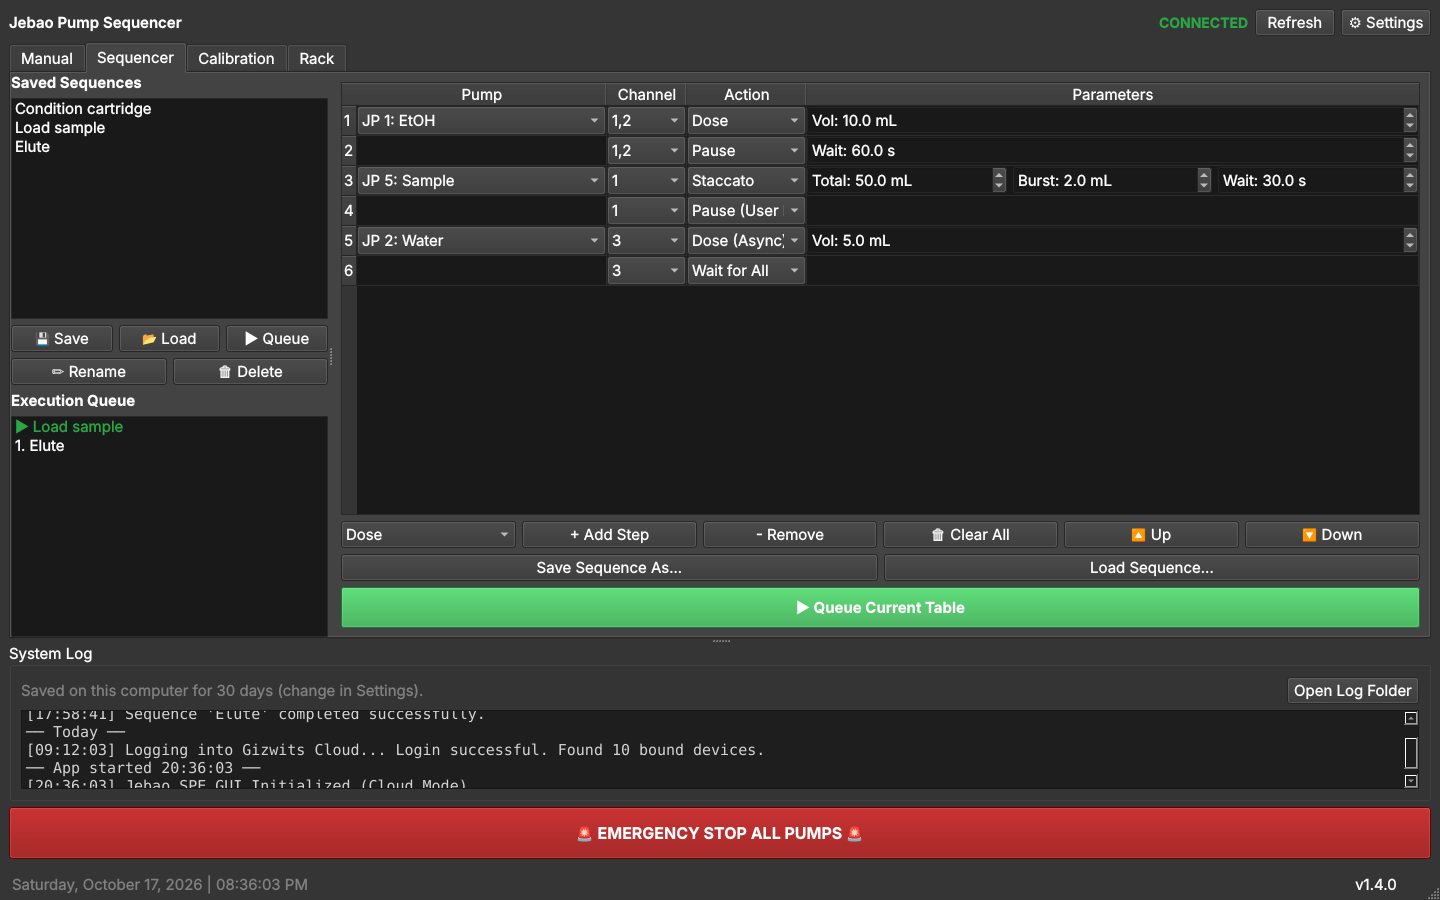
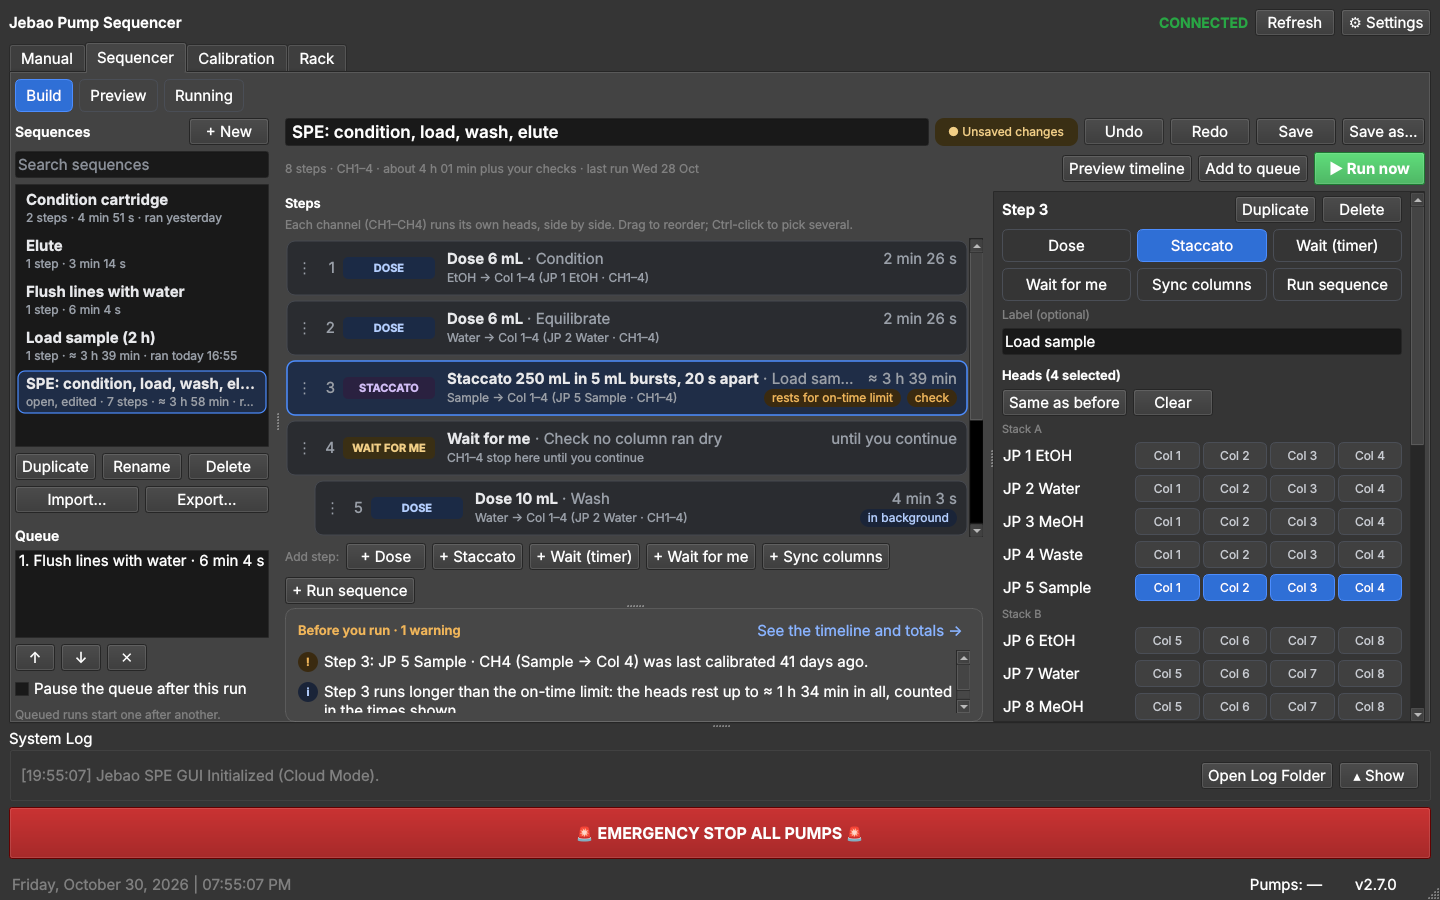
Release 2.7.0
Docs for the new Sequencer tab: README features and three screenshots,
CHANGELOG, CLAUDE.md architecture notes; package the two new modules.

Claude-Session: https://claude.ai/code/session_01Q45g1uXJXLbyeLygNHJ6jd

diff --git a/jebao_gui.py b/jebao_gui.py
@@ -1,6 +1,6 @@
 """Jebao Pump Sequencer: PyQt6 app that drives Jebao dosing pumps through the Gizwits cloud API."""
 
-__version__ = "2.6.0"
+__version__ = "2.7.0"
 
 import os
 import sys

diff --git a/CLAUDE.md b/CLAUDE.md
@@ -3,7 +3,7 @@
 PyQt6 app that drives Jebao MD-4.4 / Doser 2.4 4-channel dosing pumps (5 pumps, e.g. "JP 1: EtOH" … "JP 5: Sample") for SPE sequences: manual doses, per-channel calibration, multi-step sequences, and a global emergency stop. Part of Brandon's UAkron lab workspace (shared conventions in `../CLAUDE.md` when the repos are cloned side by side in `GitHub Projects/UAkron/`). GitHub: `brandonbtm29/Jebao-Pump-Sequencer`.
 
 ## Run, test, release
-- `python jebao_gui.py` (PyQt6 + qasync + requests; Python 3.11+ because of `asyncio.Barrier`). Install with `pip install -e ".[dev]"`; `pyproject.toml` is the only manifest.
+- `python jebao_gui.py` (PyQt6 + qasync + requests; Python 3.11+ because the sequence engine uses `Task.cancelling()`). Install with `pip install -e ".[dev]"`; `pyproject.toml` is the only manifest.
 - Checks (same as CI, `.github/workflows/ci.yml`): `ruff check .`, `ruff format --check .`, `pytest`. Tests in `tests/` run Qt offscreen, point the data and settings folders at a temp dir before importing `jebao_gui`, and block the network.
 - `settings_location.py` is excluded from ruff on purpose: keep it byte-identical to the other UAkron repos.
 - Also shared and byte-identical across the UAkron repos (never edit here): `crash_log.py`, `single_instance.py` (one copy at a time; `main()` calls `acquire(APP_NAME)`, `restart_app()` calls `release()` right before `Popen`) and `diagnostics.py` (Settings → App → Copy Diagnostics; `diagnostics_text()` adds `scrub_private()` on top, so pump IDs, MACs and the login never appear).
@@ -15,14 +15,33 @@ PyQt6 app that drives Jebao MD-4.4 / Doser 2.4 4-channel dosing pumps (5 pumps, 
 - Emergency stop sends all four channels `false` to every pump.
 - `ConfigManager` → `jebao_config.json`: names, calibration (flow rates) and last volumes, keyed by cloud device id (`did`).
 - `SecretsManager` → `secrets.json`: Jebao account email and password. **Gitignored. Never print, log, commit or copy its contents.**
-- Main classes in `jebao_gui.py` (~2,500 lines): `GUILogHandler`/`_LogBridge` (thread-safe log box), `HeadRun`, `CheckableComboBox`, `AppBox` (Settings → updates + desktop shortcut), `SettingsDialog`, `JebaoPumpGUI`.
+- Main classes in `jebao_gui.py` (~2,500 lines): `GUILogHandler`/`_LogBridge` (thread-safe log box), `HeadRun`, `AppBox` (Settings → updates + desktop shortcut), `SettingsDialog`, `JebaoPumpGUI`.
+- **Sequences (2.7):**
+  - **Model:** `sequence.py` (no Qt). A step is `{"kind": dose|staccato|wait|review|sync|sequence, "heads": [[did, ch]], "lanes", "by": volume|time, "volume", "seconds", "burst", "gap", "background", "label", "name", "sound", "message"}` (`message`: Wait for me only, at most `MAX_MESSAGE` characters). `normalize()` reads 2.6 steps (`action`/`pump_did`/`channel`/`val1-3`) and clamps odd values. `to_saved()` also writes the 2.6 fields; a step 2.6 can't run exactly (several pumps, or a dose by time) is saved for it as "Pause (User Review)". Unknown old actions become a 0 s wait.
+  - **Lanes:** the lanes are the channel numbers 1–4. A pumping step's lanes are its heads' channels, and each lane runs only its own heads. Other kinds use `lanes`. Sub-sequences are flattened (`flatten`, recursion guard).
+  - **Plans:** `plan()` simulates the lanes with `pumpguard.OnTimeBudget` and the guard's `resting_need()`, giving times, rests, per-head volumes, liquids, reviews and the "Before you run" checks. `step_problem()` decides when a pumping step can't run; such a step fails the run. Plans are bounded: `MAX_BURSTS` 5000, `SIM_LIMIT` 8000 limit-aware pumping runs, old budget spans pruned. They run on the event loop that drives the pumps, so keep them fast.
+  - **Run state:** `RunState`/`LaneState` hold the step × lane cells and each lane's status, detail and mL. `SyncPoint` lets a skipped lane count as arrived. The run history is `<data>/logs/runs-<computer>.jsonl`.
+  - **Engine (`jebao_gui.py`):**
+    - `_queue_worker` (only one at a time) → `_queue_step` → `_run_queued`; it waits while `queue_paused` unless `_run_one` (Run now).
+    - `_async_run_sequence` creates one `_run_lane` task per lane. Each step runs as its own task in `_ch_step_tasks`, so `skip_step(ch)` cancels just that step: `_skip[ch] == path` and the lane's `cancelling()` is 0.
+    - Background steps go in `_ch_running_tasks`. If one fails, `_background_done` → `_fail_run`.
+    - `_run_head` uses `_timed_run`, with a `meter` for mL delivered, and waits while its head is busy. `_together` cancels sibling heads if one fails.
+    - Pause per lane is `pause_lane` (`_ch_paused`, polled). `stop_run()` pauses the queue and sets `run.stopping`; Stop and Skip are ignored after that.
+    - The `finally` keeps waiting up to 15 s for every task's OFF, even if cancelled again. It then releases reviews, records history and calls `sequencer_tab.run_finished`.
+    - A failed or stopped run pauses the queue.
+    - **Wait for me message:** `_ch_review_messages[ch]` and `_review_at[ch]` (the step's path) are set while a lane waits. The message goes in the orange bar and the lane's detail. `_show_review_popup` opens one `ReviewPopup` (in `sequencer_tab.py`) per step path; it is non-modal, so never call `exec()` on it, because a nested event loop would stall the pumps. It holds the lanes waiting at that step. Continue approves them; Not yet only closes it. Lanes leaving the step (continued, skipped or stopped) are removed from it, and the run's `finally` closes any left.
+  - **UI:** `sequencer_tab.py` = `SequencerTab(host)` with Build / Preview / Running pages. `splitter` is `host.seq_splitter` (the sidebar divider, 2 panes, remembered per computer).
+    - **Build:** library sidebar and queue; `StepList` + `StepDelegate` cards with InternalMove drag (`reordered`); the inspector is rebuilt on selection. The draft lives in `config['sequence']`, `['sequence_name']` and `['sequence_source']`, with undo snapshots.
+    - **Preview:** `Timeline` (QPainter) and the per-head table.
+    - **Running:** `LaneCard` per lane and a progress grid. It refreshes from `host.ui_timer`.
 - **2.0 layout:** top bar (status, Refresh, Settings) → approval banner → tabs **Manual | Sequencer | Calibration | Rack** in a vertical splitter with the System Log → Emergency Stop → status bar (clock, version). `rack_widgets.py` holds `ManualTab` (PumpCard + `HeadTile`, selection, Dispense panel, S/M/L sizes in `config['ui']`) and `RackTab` (TrayList + `SlotWidget` drag-and-drop with MIME `application/x-jebao-pump`, click-to-place fallback, pump/head names). Both use the main window as `host` (see the module docstring for the methods). `HeadGrid` (the rack of selectable tiles, optional `status_for(did, ch)` hook for the status line) is shared by the Manual and Calibration tabs; tile size is shared via `host.tile_size_changed`. `refresh_pumps()` re-sorts `cloud_devices` in rack order and rebuilds the tabs; `ui_timer` (300 ms) refreshes only the tab in view (plus `calibration_tab._watch_cancel()`).
 - `rack.py`: layout data in `config['rack']` (`name`, `slots_per_stack`, `stacks[{name, slots[did|None]}]`), pure functions (place = swap, remove, resize, auto_arrange, natural_key). First 2.0 run: `rack_layout()` builds one stack from the old `pump_order`. Names: `config['pumps'][did]['display_name']`, `['head_names']` (4), `['calibrated_at']` (4 ISO dates; 1.0 mL/min with no date = "not calibrated").
 - **Calibration (2.1):** `calibration_tab.py` = `CalibrationTab` (HeadGrid with `scroll=False` and its `toolbar` pinned above one scroll area holding the grid, the live `MassChart` and the results table; Automatic/Manual pages on the right). `autocal.py` (no Qt) = `Settings`, `fit_line`, `evaluate`, `AutoCalibrator` (async; one head at a time: settle until still → ON until ~volume by balance or `max_run_s` → OFF → settle until still; two-pass fit with the ignore margins counted from the detected flow start/stop; saves the **slope** rate; pass = R² and first-half vs second-half slope within `tolerance_pct`; start/stop delays = where the line meets start/end mass, reported not judged; Δmass rate kept for the record; retries only R²/steadiness misses; no-flow fails that head; a pump or balance failure stops the run; injectable `clock`/`sleep`), `write_csv`. `balance.py` (no Qt) = MT-SICS `SI` polling and streamed-line parsers (grams), `SerialBalance` reader thread with a sample deque, `SimulatedBalance` for tests. Host hooks: `set_head`, `save_head_rate` (sets rate + `calibrated_at`), `data_dir` (CSV in `<data>/calibrations/`), `calibration_running()` (queued sequences wait). Settings in `config['autocal']`. Tubing ID/OD are no longer edited (old values kept).
 - System log: **Hide/Show** (`set_log_collapsed`, saved as `config['ui']['log_collapsed']`) hides the text box, caps the group's height and shows the latest line in `lbl_log_info`.
 - **Pump guard (2.5):** `pumpguard.py` (no Qt). `send_cloud_command()` → `guard.command()` → `_post_control()` (raw HTTP).
   - **Bookkeeping:** the guard records `app_on`/`last_cmd`, takes one `asyncio.Lock` per head so commands never overlap, and tracks commands still in flight.
-  - **Failed commands:** a failed OFF, or a failed or cancelled ON, goes into `must_off`. `_keep_stopping` retries with back-off; after a failed ON it sends a second OFF 12 s later.
+  - **Failed commands:** a failed OFF, or a failed or cancelled ON, goes into `must_off`. `_keep_stopping` retries with back-off; after a failed ON it sends a second OFF 12 s later (also when another path's OFF got there first).
+  - **Cancelled commands (2.7):** `command()` sends through a shielded task. If the caller is cancelled, `_finish` waits up to `FINISH_WAIT_S` for the request, so a later OFF can't overtake a late ON; a cancelled ON is then stopped. An OFF cancelled before it went out is put in `must_off`. `only_if` is checked once the lock is held (the guard's re-ON uses it).
   - **Confirming OFF:** an OFF to a head that was on stays in `unconfirmed` until the pump's report (`_read_pump`: GET `/app/devdata/{did}/latest` → `attr.channe1..8`, `updated_at`) shows it at 0. This applies only when reports can be read, or when the pump is offline.
   - **`check()` after every pump-list fetch:** stops orphans (app_on but no HeadRun after 20 s), stops non-resting runs that are over the limit, and stops heads that report ON while the app has them off. It also re-sends ON once if a dose's head reports OFF.
   - **On-time budget:** `OnTimeBudget`. `head_limit()` comes from `config['guard']` (enabled, on_min, window_min) or a per-head `config['pumps'][did]['limits'][ch-1]` (None/"off"/minutes).
@@ -36,7 +55,7 @@ PyQt6 app that drives Jebao MD-4.4 / Doser 2.4 4-channel dosing pumps (5 pumps, 
 - `updater.py`: checks GitHub's latest release, fast-forwards a git clone to the tag, reinstalls (`pip install -e .`) only if `pyproject.toml` changed, rolls back on failure. Same design as Balance-Streamer-GUI and Masterflex. `JebaoPumpGUI.busy_reason()` blocks updating while a sequence/queue, manual dose or calibration is running (`_motor_jobs` counter).
 - Startup (`main()` → `start_background_tasks()` after 1.5 s): one GitHub release check unless `config['check_updates_on_start']` is False (Settings → App checkbox; bottom-right `version_button` turns orange when outdated, no dialog; click → Settings update offer) and `maintain_desktop_shortcut()` (creates the shortcut on first launch, refreshes it when `__version__` changed; per-copy record `desktop_shortcut.json`, gitignored; off via the Settings checkbox). Neither runs in tests (they never call `main()`).
 - `eventlog.py`: the system log on disk. `main()` prunes and loads this computer's history (`JebaoPumpGUI(history=...)`) and adds `DailyFileHandler` → `<data>/logs/events-YYYY-MM-DD-<computer>.log` (same folder as crash_log.py's error log) (computer name in the file name so SyncThing never sees two writers). Retention `log_keep_days` in jebao_config (default 30, Settings). Tests never call `main()`, so they don't write logs.
-- Since 1.4.0: approvals are an orange banner (`refresh_approval_banner()`, buttons only for waiting channels); clock in the status bar; Restart only in Settings → App. The Sequencer's blank Pump cell on Pause/Wait/Sub-sequence rows is intentional (those steps act on a channel, not a pump).
+- Since 1.4.0: approvals are an orange banner (`refresh_approval_banner()`, "Continue CHn" buttons only for waiting channels; since 2.7 it names the step from `_ch_review_titles`); clock in the status bar; Restart only in Settings → App.
 - `shortcut.py`: desktop shortcut per OS (Windows .lnk via PowerShell with env-var values, macOS .app bundle, Linux .desktop), pointing at this clone's Python and `jebao_gui.py`. Icons in `assets/` (drawn by `scripts/make_icon.py`).
 
 ## History and open work

diff --git a/CHANGELOG.md b/CHANGELOG.md
@@ -4,6 +4,56 @@ All notable changes to this project are listed here. The format follows [Keep a 
 
 ## [Unreleased]
 
+## [2.7.0] - 2026-10-30
+
+A new Sequencer tab. Your saved sequences carry over and run as before.
+
+### Added
+- **Build view.**
+  - **Steps as cards.** Each card shows the step's type, a plain description ("Dose 6 mL · Condition", "EtOH → Col 1–4 (JP 1 · CH1–4)") and how long it will take. Flags show steps that run in the background, rest for the on-time limit or have a problem.
+  - **Easier editing.** Drag cards to reorder them, and select several to copy, paste, duplicate or delete. Undo and Redo, plus keyboard shortcuts (Ctrl+Z, Ctrl+Shift+Z, Ctrl+S, Ctrl+D, Ctrl+C, Ctrl+V, Alt+↑/↓, Delete).
+  - **Step settings on the right.** Pick the step type and give it a label. Pick heads by name from the rack, from any pumps in one step; dashed means not calibrated and grey means offline. Set an amount by volume or by time (min : s), the bursts and waits for Staccato, and the channels for timers, waits and syncs. Every step shows an estimate.
+  - **"Before you run" checks.** Heads not picked, missing or old calibrations (over 30 days), offline pumps, rests for the on-time limit, missing sub-sequences, and the liquid needed.
+  - **Saved sequences.** Search them, and see each one's steps, time and last run. New, Duplicate, Rename (sequences that run it keep working), Delete, Export and Import.
+  - **Your work is kept.** The sequence you're editing is saved as you go, with an "Unsaved changes" marker until you press Save.
+- **Preview.**
+  - The total time with and without the on-time limit, and the finish time for any start time.
+  - When you'll be needed (the first Wait for me step), and the liquid to prepare.
+  - A timeline per channel showing pumping, bursts, rests, waits for you, timers and sync waits.
+  - A table per head: rate, volume, pumping time, resting time and checks.
+  - Nothing is sent to the pumps.
+- **Running view.**
+  - The run's state, elapsed time, time left, finish time and progress, with Pause all / Resume all, Skip step and Stop run.
+  - A card per channel: its current step, burst count, mL delivered so far, resting countdown and next step, with its own Pause, Skip and Continue.
+  - A step × channel progress grid, what's queued next, and recent runs.
+- **Skip a step** on one channel or all: its heads turn off and the channel goes on with the next step.
+- **Pause one channel** (or all): its heads turn off and its timers stop until you resume. Waits for you and syncs aren't affected.
+- **Run history.** Every run is saved with its times, how it ended, where a stopped run had got to and what it delivered, in `runs-<computer>.jsonl` in the log folder.
+- **Queue controls.** Move queued runs up and down or remove them, and tick "Pause the queue after this run" to hold the next one. Stop run pauses the queue. A run that fails or is stopped pauses it too, so the next run doesn't start on its own. **Run now** starts a sequence next, even when the queue is paused; the rest stay paused.
+- **Messages on Wait for me steps.** Write what to do at that step, such as a manual setup change ("Move the sample lines to the collection tubes"). When a channel gets there:
+  - The message pops up in a window that stays on top, with **Continue** for every channel waiting at that step, and **Not yet** to close it while the run keeps waiting.
+  - It's also shown in the orange bar, on the channel's card in the Running view, on the step's card, in the Preview and in the System Log.
+- **Wait for me** can play a sound, and the orange bar now names the step ("Waiting for you: CH2 … (step 4: Check no column ran dry)"), with **Continue** buttons.
+
+### Changed
+- **Step types renamed.**
+  - Pause → **Wait (timer)**.
+  - Pause (User Review) → **Wait for me**.
+  - Wait for All → **Sync columns**.
+  - Run Sub-Sequence → **Run sequence**.
+  - Dose (Async) and Staccato (Async) → **Dose** or **Staccato** with **Run in the background** ticked.
+- A step can use heads on several pumps. Each channel runs its own heads, side by side, as before.
+- A step with a problem (no heads, 0 mL, a 0 mL burst, more than 5,000 bursts, or no flow rate for a volume) now stops the run with an error instead of pumping something else. You're asked before a sequence with problems starts.
+- A step whose head is still busy (a background step or a manual dose on it) waits for it to be free.
+- A sync inside a sub-sequence works now. Before, it could wait for ever.
+- Steps that version 2.6 and older can't run exactly (more than one pump, or a dose by time) are saved so that an older copy of the app sharing the same settings stops at them and waits for you, instead of pumping the wrong head. Update every computer that shares settings.
+
+### Fixed
+- **Skip, Stop or Emergency Stop just as a head was turned on could leave it running.** The ON could reach the pump after the OFF. A cancelled command now waits for its request to finish before the OFF is sent, and a cancelled ON always ends with the head turned off.
+- **An OFF cancelled before it was sent** (for example by pressing Stop twice) is now still sent.
+- **The pump guard could turn a head back on just after its dose ended.** The guard re-sends ON when a pump reports a head OFF mid-dose, and that ON could land after the dose's final OFF. It now checks, just before sending, that the dose still wants the head on.
+- **"Sequence completed successfully" was logged after an Emergency Stop.** The log now says how each run ended.
+
 ## [2.6.0] - 2026-10-28
 
 ### Added
@@ -215,7 +265,8 @@ The working app before tracked releases.
 - Settings Folder option, so your login and pump settings can live in a synced folder and stay the same on every computer.
 - Double-click launchers for Windows and macOS.
 
-[Unreleased]: https://github.com/brandonbtm29/Jebao-Pump-Sequencer/compare/v2.6.0...HEAD
+[Unreleased]: https://github.com/brandonbtm29/Jebao-Pump-Sequencer/compare/v2.7.0...HEAD
+[2.7.0]: https://github.com/brandonbtm29/Jebao-Pump-Sequencer/compare/v2.6.0...v2.7.0
 [2.6.0]: https://github.com/brandonbtm29/Jebao-Pump-Sequencer/compare/v2.5.0...v2.6.0
 [2.5.0]: https://github.com/brandonbtm29/Jebao-Pump-Sequencer/compare/v2.4.0...v2.5.0
 [2.4.0]: https://github.com/brandonbtm29/Jebao-Pump-Sequencer/compare/v2.3.1...v2.4.0

diff --git a/README.md b/README.md
@@ -15,10 +15,13 @@ Jebao dosing pumps are cheap and reliable, but their phone app is built for aqua
 - **Rack tab, your physical setup**: choose how many stacks and pumps per stack, drag pumps into place (or **Auto-arrange A→Z**: JP 2 comes before JP 10), and give each pump and head a name, like "Water → Col 3". Other people can set up their own rigs the same way.
 - **Automatic calibration with a balance**: pick the heads on the rack, put their outlets in one beaker on a Mettler Toledo or Bonvoisin balance, and press Calibrate. The heads run one after another; for each, the app fits a straight line to the mass readings and saves its slope as the flow rate when the line fits well (R² ≥ 0.99) and the flow was steady (the first and second half agree within 2 %; both adjustable). It also shows how late each pump really started and stopped after the app sent ON and OFF. Heads that don't pass are redone, then left for you to Accept or Redo. Every run is saved as a CSV, with the raw readings.
 - **Manual calibration**: or run the selected heads for a set time (60 s by default), type in the volume or mass each one delivered, and save.
-- **Sequences**: build a table of steps (Dose, Staccato, Pause, Pause for user review, Wait for all, Run sub-sequence) across any of your pumps, save it under a name, and reuse it. Saved sequences and the queue are in the Sequencer tab.
-- **Channels run side by side**: each channel works through its own steps at the same time as the others. "Wait for All" lines them up again, and async doses run in the background.
-- **Queue**: line up several saved sequences and they run one after another.
-- **Review steps you can't miss**: when a sequence waits for your review, an orange bar appears across the top with an Approve button for each waiting channel.
+- **Sequences, built as cards**: add steps (Dose, Staccato, Wait (timer), Wait for me, Sync columns, Run sequence), drag them into order, and set each one on the right: pick heads by name from the rack (from any pumps), an amount by volume or time, bursts for Staccato, or run it in the background. Each card says what the step does and how long it takes. Undo, copy and paste, and keyboard shortcuts work as you'd expect.
+- **Before you run**: the app checks for missing heads, old or missing calibrations, offline pumps, rests for the on-time limit and missing sub-sequences, and adds up the liquid you need.
+- **Preview**: the total time (with and without the on-time limit), when it will finish, when you'll be needed, the liquid to prepare, a timeline per channel and a table per head. Nothing is sent to the pumps.
+- **Channels run side by side**: each channel (CH1–CH4) works through the steps on its own heads at the same time as the others. **Sync columns** lines them up again.
+- **Running view**: progress, time left and the finish time; a card per channel with its current step, bursts and mL delivered; pause or skip one channel or all; stop the run. Every run is kept in a run history, including where a stopped run had got to.
+- **Saved sequences and the queue**: search, duplicate, rename, export and import sequences; line several up and they run one after another. Reorder the queue or pause it after the current run.
+- **Wait for me steps you can't miss**: an orange bar appears across the top naming the step, with a Continue button for each waiting channel, and the app can play a sound. Give the step a message, such as a setup change to make there, and it pops up in a window with a Continue button when the run gets there.
 - **Pump guard: no head left running, none running too long**
   - **OFF until it works.** Every OFF is retried until it gets through. An OFF to a pump that has dropped off Wi-Fi only counts once that pump reports the head off.
   - **Checks what the pumps report.** Every 30 s the app reads each pump's own report of its four heads. A head running that the app didn't start (a lost OFF, a pump that reconnected, the phone app, or left over from before the app opened) is turned off and logged.
@@ -37,7 +40,11 @@ Jebao dosing pumps are cheap and reliable, but their phone app is built for aqua
 
 ![Rack tab: two stacks of five pumps, the Not placed list, and the names of one pump's heads](docs/screenshot-rack.png)
 
-![Sequencer tab: saved sequences and the queue on the left, a six-step sequence across three pumps](docs/screenshot-sequencer.png)
+![Sequencer tab, Build view: saved sequences and the queue on the left, the steps as cards in the middle, and the selected Staccato step's heads and amounts on the right](docs/screenshot-sequencer.png)
+
+![Sequencer tab, Preview: total time, finish time, when you're needed, the liquid to prepare, and a timeline per channel with the on-time limit rests](docs/screenshot-sequencer-preview.png)
+
+![Sequencer tab, Running view: one card per channel with its current step, one channel waiting for you, and a step-by-channel progress grid](docs/screenshot-sequencer-running.png)
 
 ## Requirements
 
@@ -77,7 +84,7 @@ Jebao dosing pumps are cheap and reliable, but their phone app is built for aqua
 2. The app logs in and shows your pumps in the **Manual** tab, using the names you gave them in the phone app. At first they are all in one stack.
 3. Open the **Rack** tab and arrange them as they sit on your bench: set the number of stacks and pumps per stack, then drag each pump into its place (or press **Auto-arrange A→Z**). Click a pump to name it and its heads.
 4. Calibrate each head you plan to use (**Calibration** tab: **Uncalibrated** selects the ones that still need it). Until you do, the app assumes 1 mL/min and marks the head "not calibrated", so volume doses would be wrong.
-5. In **Manual**, select a head, try a small dose, then build a sequence in **Sequencer**.
+5. In **Manual**, select a head, try a small dose, then build a sequence in **Sequencer**: add steps with the buttons under the list, pick the heads on the right, check **Preview**, then press **▶ Run now**.
 
 Coming from 1.x? Your login, calibrations, pump order and saved sequences carry over. The pumps start in one stack in your old order until you arrange them in the Rack tab.
 
